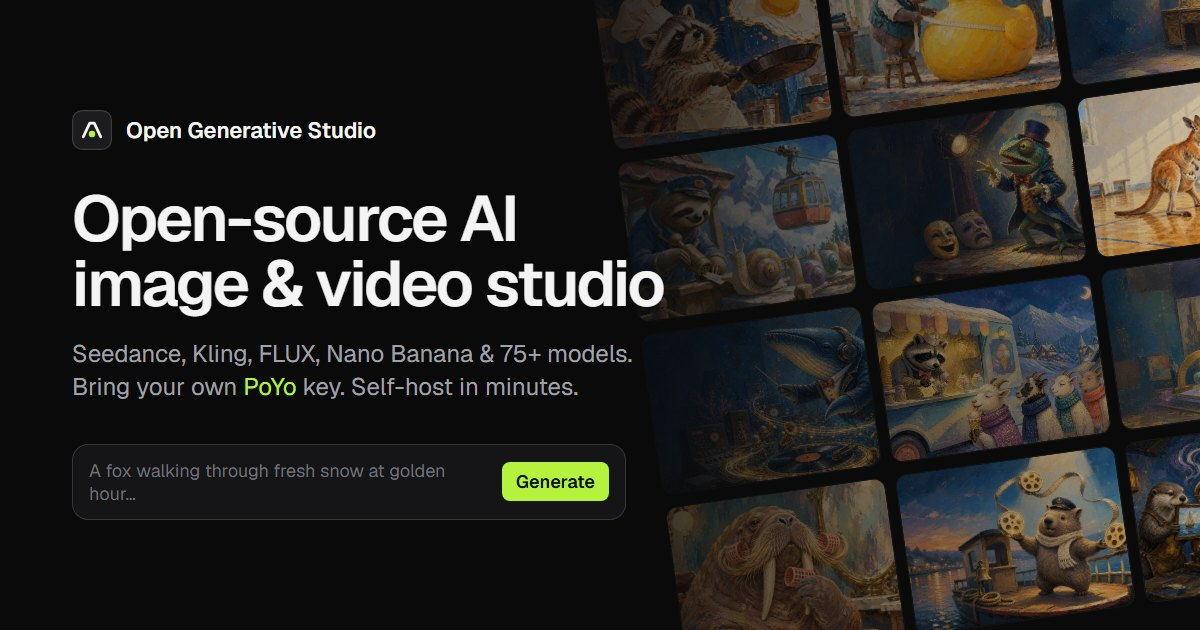
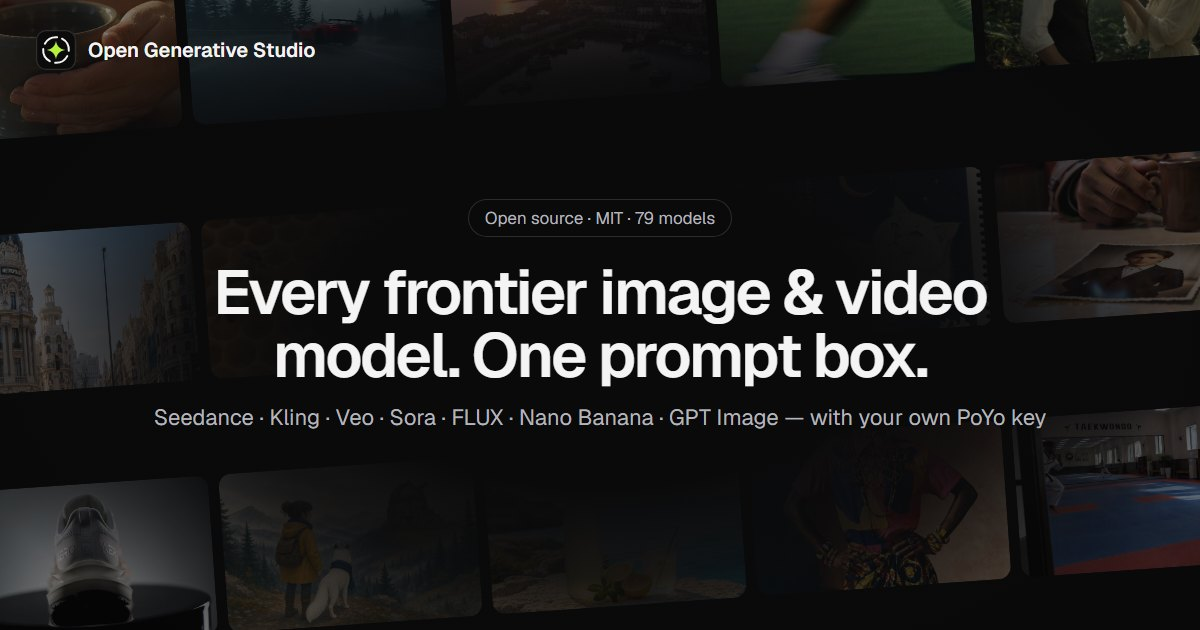
Aperture-spark brand mark, shortcuts sheet, two-state theme toggle, new OG
- New mark: a segmented lens ring around a lime four-point spark (favicon,
  logo); the favicon gains a lime dot while results are unseen
- "?" opens a keyboard shortcuts sheet (also in the top bar)
- Theme toggle flips dark/light; System remains available in Settings
- 1200x630 OG image rebuilt from real showcase outputs (84 KB)

diff --git a/src/ui/ThemeToggle.tsx b/src/ui/ThemeToggle.tsx
@@ -1,23 +1,31 @@
-import { Monitor, Moon, Sun } from 'lucide-react';
+import { Moon, Sun } from 'lucide-react';
+import { useEffect, useState } from 'react';
 import { cn } from './cn';
-import { useTheme, type ThemePref } from './theme';
+import { resolvedTheme, useTheme } from './theme';
 import { Tooltip } from './Tooltip';
 
-const ORDER: ThemePref[] = ['system', 'dark', 'light'];
-const LABEL: Record<ThemePref, string> = { system: 'System theme', dark: 'Dark theme', light: 'Light theme' };
-
-/** Icon button cycling system → dark → light. */
+/** Two-state toggle: flips between dark and light (starting from the system theme). */
 export function ThemeToggle({ className }: { className?: string }) {
   const pref = useTheme((s) => s.pref);
   const setPref = useTheme((s) => s.setPref);
-  const next = ORDER[(ORDER.indexOf(pref) + 1) % ORDER.length];
-  const Icon = pref === 'system' ? Monitor : pref === 'dark' ? Moon : Sun;
+  const [current, setCurrent] = useState(() => resolvedTheme(pref));
+
+  useEffect(() => {
+    setCurrent(resolvedTheme(pref));
+    const mq = window.matchMedia?.('(prefers-color-scheme: light)');
+    const onChange = () => setCurrent(resolvedTheme(useTheme.getState().pref));
+    mq?.addEventListener?.('change', onChange);
+    return () => mq?.removeEventListener?.('change', onChange);
+  }, [pref]);
+
+  const next = current === 'dark' ? 'light' : 'dark';
+  const Icon = current === 'dark' ? Moon : Sun;
   return (
-    <Tooltip label={`${LABEL[pref]} · switch to ${next}`}>
+    <Tooltip label={`Switch to ${next} theme`}>
       <button
         type="button"
         onClick={() => setPref(next)}
-        aria-label={`${LABEL[pref]}. Switch to ${next}`}
+        aria-label={`Switch to ${next} theme`}
         className={cn(
           'inline-flex size-9 items-center justify-center rounded-sm text-fg-muted transition-colors hover:bg-surface-2 hover:text-fg',
           className,

diff --git a/src/components/ShortcutsDialog.tsx b/src/components/ShortcutsDialog.tsx
@@ -1,0 +1,62 @@
+import { modKey } from '../lib/format';
+import { useUI } from '../lib/store';
+import { Dialog, Kbd } from '../ui';
+
+const GROUPS: { title: string; rows: [string[], string][] }[] = [
+  {
+    title: 'Create',
+    rows: [
+      [[modKey, '↵'], 'Generate'],
+      [[modKey, 'K'], 'Choose a model'],
+      [['/'], 'Focus the prompt'],
+      [[modKey, 'V'], 'Paste an image as a reference'],
+    ],
+  },
+  {
+    title: 'Model palette',
+    rows: [
+      [['↑', '↓'], 'Move'],
+      [['PgUp', 'PgDn'], 'Jump'],
+      [[modKey, '1–3'], 'All · Video · Image'],
+      [['↵'], 'Select'],
+    ],
+  },
+  {
+    title: 'Gallery & viewer',
+    rows: [
+      [['←', '→'], 'Previous / next'],
+      [['F'], 'Fullscreen'],
+      [['Shift', 'Click'], 'Select a range'],
+      [['Esc'], 'Close / clear selection'],
+      [['?'], 'This sheet'],
+    ],
+  },
+];
+
+export function ShortcutsDialog() {
+  const open = useUI((s) => s.shortcutsOpen);
+  const setOpen = useUI((s) => s.setShortcutsOpen);
+  return (
+    <Dialog open={open} onClose={() => setOpen(false)} title="Keyboard shortcuts" size="lg">
+      <div className="grid gap-6 px-5 pt-1 pb-5 sm:grid-cols-3">
+        {GROUPS.map((g) => (
+          <section key={g.title}>
+            <h3 className="label mb-2">{g.title}</h3>
+            <dl className="flex flex-col gap-2">
+              {g.rows.map(([keys, what]) => (
+                <div key={what} className="flex items-center justify-between gap-3">
+                  <dt className="text-sm text-fg-muted">{what}</dt>
+                  <dd className="flex shrink-0 gap-1">
+                    {keys.map((k) => (
+                      <Kbd key={k}>{k}</Kbd>
+                    ))}
+                  </dd>
+                </div>
+              ))}
+            </dl>
+          </section>
+        ))}
+      </div>
+    </Dialog>
+  );
+}

diff --git a/src/components/TopBar.tsx b/src/components/TopBar.tsx
@@ -1,4 +1,4 @@
-import { FlaskConical, Settings } from 'lucide-react';
+import { FlaskConical, Keyboard, Settings } from 'lucide-react';
 import { useEffect, useState } from 'react';
 import { config } from '../config';
 import { MOCK_MODE } from '../lib/api';
@@ -10,6 +10,7 @@ export function TopBar() {
   const [scrolled, setScrolled] = useState(false);
   const hasKey = useSettings((s) => Boolean(s.apiKey));
   const openSettings = useUI((s) => s.setSettingsOpen);
+  const openShortcuts = useUI((s) => s.setShortcutsOpen);
 
   useEffect(() => {
     const onScroll = () => setScrolled(window.scrollY > 4);
@@ -59,6 +60,16 @@ export function TopBar() {
           </a>
         )}
         <GitHubStar />
+        <Tooltip label="Keyboard shortcuts (?)">
+          <button
+            type="button"
+            onClick={() => openShortcuts(true)}
+            aria-label="Keyboard shortcuts"
+            className="hidden size-9 items-center justify-center rounded-sm text-fg-muted transition-colors hover:bg-surface-2 hover:text-fg md:inline-flex"
+          >
+            <Keyboard size={17} strokeWidth={1.75} />
+          </button>
+        </Tooltip>
         <ThemeToggle />
         <Tooltip label="Settings">
           <button

diff --git a/src/components/Brand.tsx b/src/components/Brand.tsx
@@ -6,19 +6,23 @@ import { cn } from '../ui';
 export function Logo({ className }: { className?: string }) {
   if (config.brandLogoUrl)
     return <img src={config.brandLogoUrl} alt="" className={cn('size-7 rounded-sm object-contain', className)} />;
+  // "Aperture spark": a segmented lens ring around a four-point spark.
   return (
     <svg viewBox="0 0 32 32" className={cn('size-7', className)} aria-hidden="true">
       <rect width="32" height="32" rx="8" className="fill-surface-2" />
       <rect x="0.5" y="0.5" width="31" height="31" rx="7.5" fill="none" className="stroke-line-strong" />
-      <path
-        d="M9 21.5 14.2 10.5h3.6L23 21.5"
+      <circle
+        cx="16"
+        cy="16"
+        r="10.25"
         fill="none"
         className="stroke-fg"
-        strokeWidth="2.2"
+        strokeWidth="1.6"
         strokeLinecap="round"
-        strokeLinejoin="round"
+        strokeDasharray="11.6 4.5"
+        transform="rotate(-62 16 16)"
       />
-      <circle cx="16" cy="19.2" r="2.6" className="fill-accent" />
+      <path d="M16 8.6c.7 4.4 2.9 6.6 7.4 7.4-4.5.8-6.7 3-7.4 7.4-.8-4.4-3-6.6-7.4-7.4 4.4-.8 6.6-3 7.4-7.4Z" className="fill-accent" />
     </svg>
   );
 }

diff --git a/src/App.tsx b/src/App.tsx
@@ -5,6 +5,7 @@ import { Gallery } from './components/Gallery';
 import { Lightbox } from './components/Lightbox';
 import { ModelPalette } from './components/ModelPalette';
 import { SettingsDialog } from './components/SettingsDialog';
+import { ShortcutsDialog } from './components/ShortcutsDialog';
 import { TopBar } from './components/TopBar';
 import { MOCK_MODE } from './lib/api';
 import { focusPrompt, useGallery, useUI } from './lib/store';
@@ -30,6 +31,11 @@ function useGlobalHotkeys() {
         if (hasOpenLayer() || ui.lightboxId) return;
         e.preventDefault();
         void generate();
+        return;
+      }
+      if (e.key === '?' && !mod && !isTyping(e.target) && !hasOpenLayer()) {
+        e.preventDefault();
+        ui.setShortcutsOpen(true);
         return;
       }
       if (e.key === '/' && !mod && !isTyping(e.target) && !hasOpenLayer()) {
@@ -64,6 +70,7 @@ export default function App() {
       <Composer />
       <ModelPalette />
       <SettingsDialog />
+      <ShortcutsDialog />
       <Lightbox />
       <Toaster />
     </MotionConfig>

diff --git a/src/lib/store.ts b/src/lib/store.ts
@@ -365,6 +365,8 @@ interface UIState {
   paletteOpen: boolean;
   settingsOpen: boolean;
   lightboxId: string | null;
+  shortcutsOpen: boolean;
+  setShortcutsOpen: (v: boolean) => void;
   setPaletteOpen: (v: boolean) => void;
   setSettingsOpen: (v: boolean) => void;
   openLightbox: (id: string | null) => void;
@@ -374,6 +376,8 @@ export const useUI = create<UIState>((setState) => ({
   paletteOpen: false,
   settingsOpen: false,
   lightboxId: null,
+  shortcutsOpen: false,
+  setShortcutsOpen: (shortcutsOpen) => setState({ shortcutsOpen }),
   setPaletteOpen: (paletteOpen) => setState({ paletteOpen }),
   setSettingsOpen: (settingsOpen) => setState({ settingsOpen }),
   openLightbox: (lightboxId) => setState({ lightboxId }),
